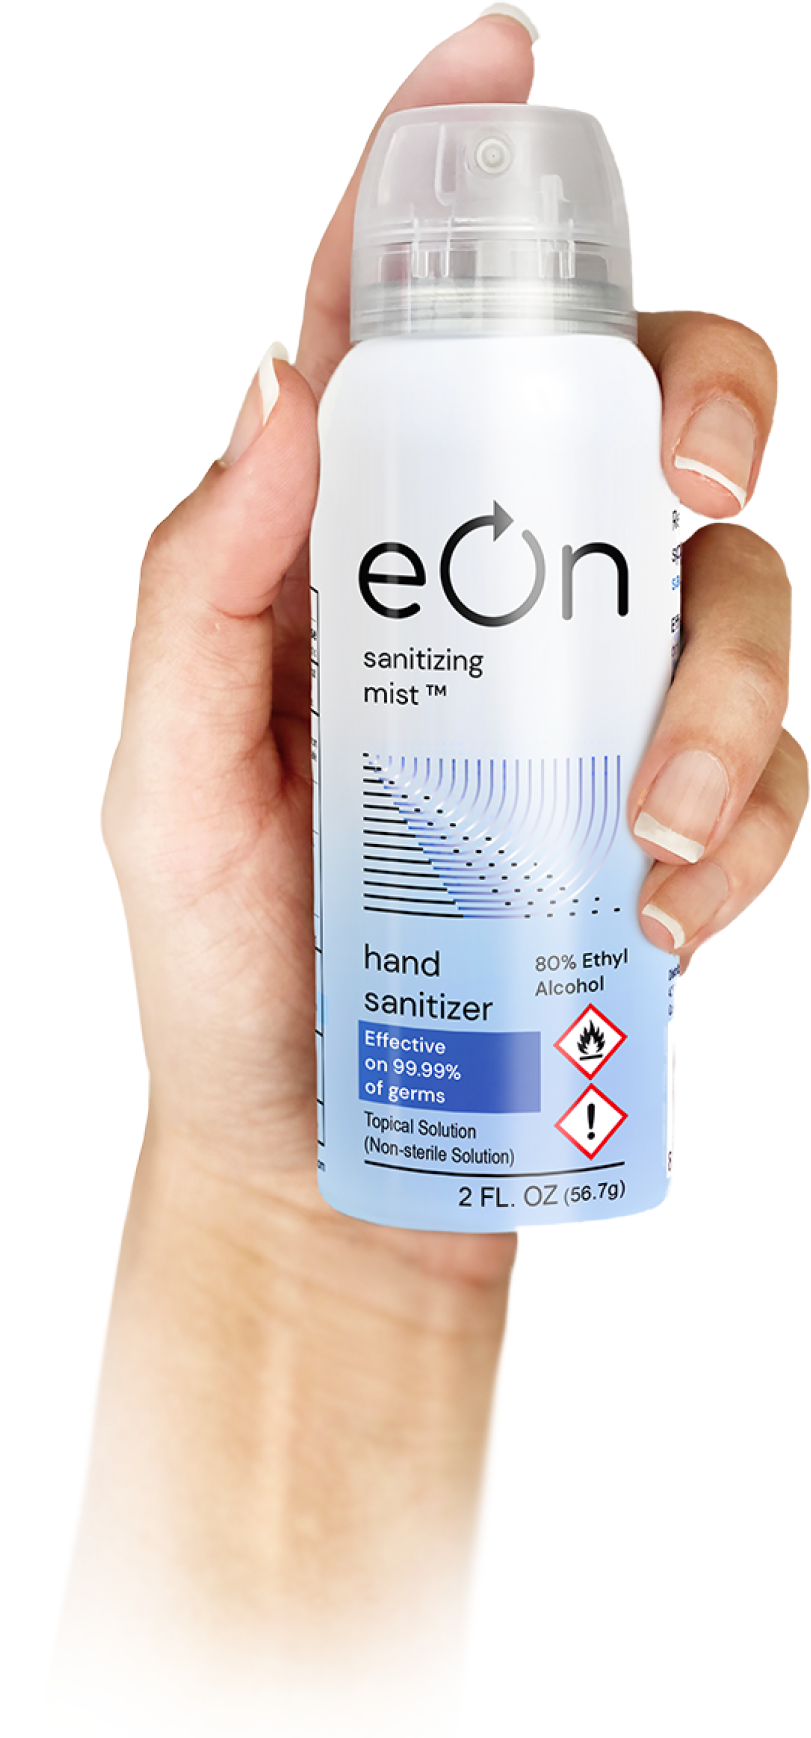
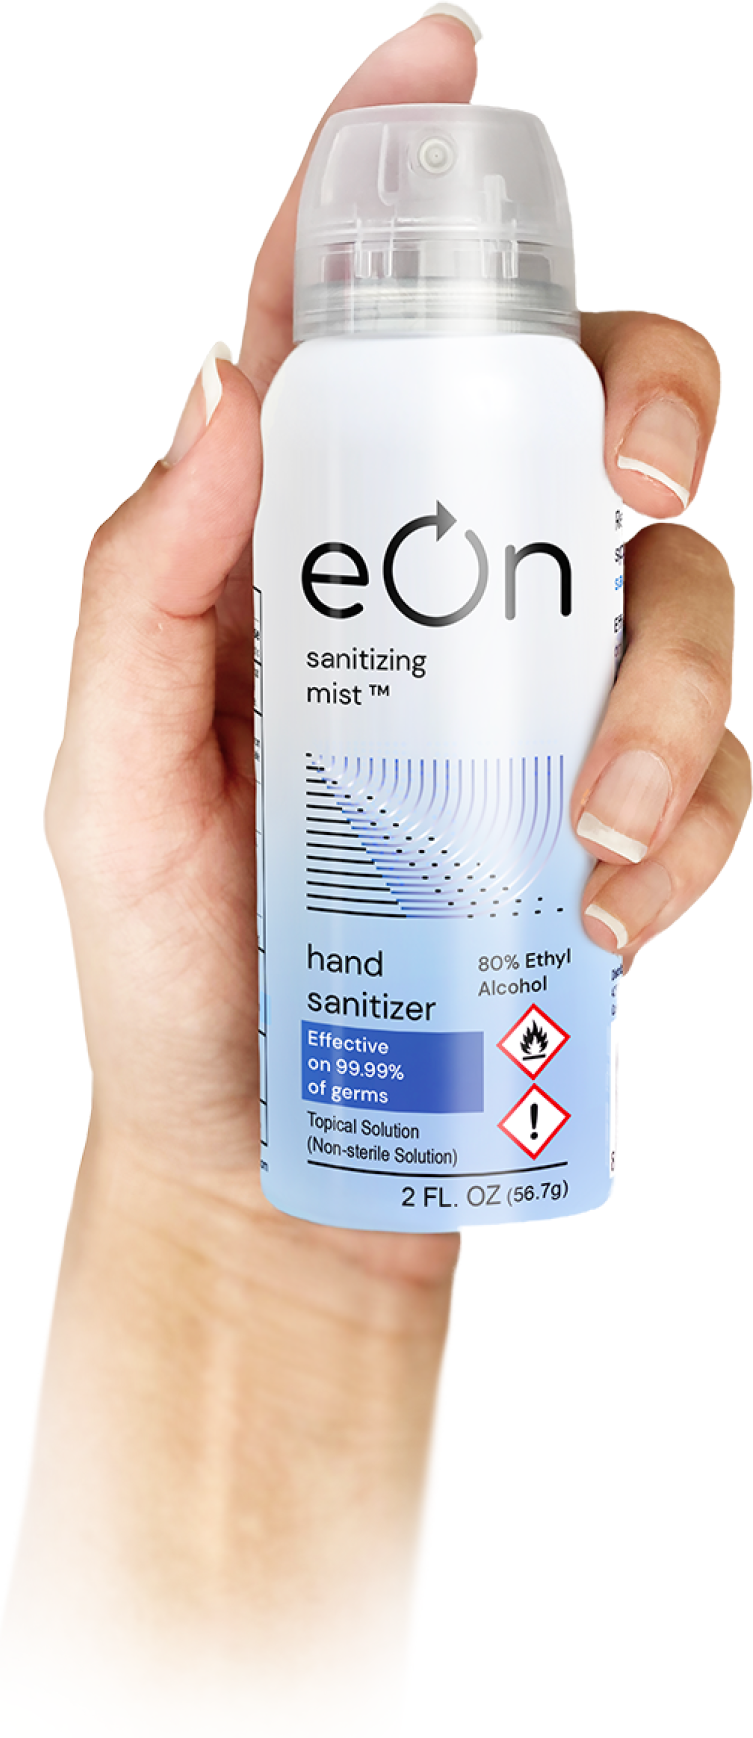
layout

diff --git a/web/src/components/HomePage/Specs/styles.scss.tsx b/web/src/components/HomePage/Specs/styles.scss.tsx
@@ -75,6 +75,10 @@ export const HowTo = styled(Flex)`
   margin: 0 auto;
   flex-wrap: wrap;
 
+  @media ${theme.mq.tablet} {
+    flex-wrap: nowrap;
+  }
+
   .figure {
     display: flex;
     flex-direction: column;
@@ -82,11 +86,12 @@ export const HowTo = styled(Flex)`
 
     margin: 0 ${theme.space[5]} ${theme.space[5]};
 
-    flex: 1 1 300px;
-    max-width: 300px;
+    flex: 1 1 280px;
+    max-width: 280px;
 
     @media ${theme.mq.tablet} {
       margin: 0 ${theme.space[3]} ${theme.space[6]};
+      max-width: 333px;
     }
 
     svg {
@@ -94,6 +99,10 @@ export const HowTo = styled(Flex)`
       width: 100%;
 
       @media ${theme.mq.tablet} {
+        height: 140px;
+      }
+
+      @media ${theme.mq.desktop} {
         height: 200px;
       }
     }
@@ -109,11 +118,15 @@ export const HowTo = styled(Flex)`
 
       background: ${theme.colors.white};
       border: ${theme.border};
-      /* border-radius: ${theme.space[9]}; */
+      border-radius: ${theme.borderRadius};
       margin-top: ${theme.space[4]};
       padding: ${theme.space[1]} 0;
 
       @media ${theme.mq.tablet} {
+        font-size: calc(${theme.fontSizes[2]} * 1.25);
+      }
+
+      @media ${theme.mq.desktop} {
         font-size: calc(${theme.fontSizes[2]} * 1.5);
       }
     }

diff --git a/web/src/components/HomePage/Specs/Specs.tsx b/web/src/components/HomePage/Specs/Specs.tsx
@@ -51,7 +51,7 @@ const HowTo = () => (
 const Specs = () => {
   return (
     <>
-      <Section bg="background" pt={[7, 11]}>
+      <Section bg="background" pt={[7, 9, 10]}>
         <S.HowTo>
           <HowTo />
         </S.HowTo>
@@ -63,7 +63,7 @@ const Specs = () => {
               <Text as="span" color="primary">
                 Works on contact;
               </Text>{' '}
-              Immediate action against bacteria, fungi, and viruses.
+              Immediate action against 99.99% of common germs.
             </Heading>
           </Box>
           <Flex width={[1, 2 / 10]} justifyContent="flex-end">
@@ -98,11 +98,11 @@ const Specs = () => {
         <Flex className="spec__block">
           <Box width={[1, 8 / 10]} pr={[5, 0]}>
             <Heading as="h3" mb={[4, 5]} className="text--xxl">
-              Fine mist, wide angle{' '}
+              Fine, wide angle{' '}
               <span>
                 <Spray />
               </span>{' '}
-              aerosol covers hands in one quick spray{' '}
+              mist covers hands in one quick spray{' '}
               <span>
                 <Hand />
               </span>{' '}

diff --git a/web/src/components/Layout/Layout.tsx b/web/src/components/Layout/Layout.tsx
@@ -37,19 +37,20 @@ const Layout: React.FC<LayoutProps> = ({ children }) => {
   // const isHome = pathname === '/'
 
   // eslint-disable-next-line no-console
-  console.log(`%c eOn Mist — caseyKennedy.me `, `background: #FFFFFF; color: #000000`)
+  console.log(
+    `%c eOn Mist — built by caseyKennedy.me `,
+    `background: #FFFFFF; color: #000000`
+  )
   return (
     <ContextProvider>
       <ThemeProvider theme={theme}>
         <GlobalStyles />
-        <ParallaxProvider>
-          <S.Wrapper id="main-root">
-            <Header mainRef={mainRef} />
-            <Announcement mainRef={mainRef} to="/eon" />
-            <S.Main ref={mainRef}>{children}</S.Main>
-            <Footer />
-          </S.Wrapper>
-        </ParallaxProvider>
+        <S.Wrapper id="main-root">
+          <Header mainRef={mainRef} />
+          <Announcement mainRef={mainRef} to="/eon" />
+          <S.Main ref={mainRef}>{children}</S.Main>
+          <Footer />
+        </S.Wrapper>
       </ThemeProvider>
     </ContextProvider>
   )

diff --git a/web/src/components/AddToCart/styles.scss.tsx b/web/src/components/AddToCart/styles.scss.tsx
@@ -50,17 +50,17 @@ export const AddToCart = styled(Flex)`
   }
 
   span {
-    margin-left: ${theme.space[5]};
+    margin-left: ${theme.space[4]};
     transition: ${theme.transition.all};
 
     position: relative;
-    right: ${theme.space[2]};
 
-    display: none;
+    /* display: none; */
 
     @media ${theme.mq.tablet} {
       display: block;
       margin-left: ${theme.space[6]};
+      right: ${theme.space[2]};
     }
 
     @media ${theme.mq.desktop} {
@@ -68,7 +68,7 @@ export const AddToCart = styled(Flex)`
     }
 
     svg {
-      width: calc(${theme.space[5]});
+      width: calc(${theme.space[4]} * 1.25);
       fill: ${theme.colors.white};
 
       @media ${theme.mq.desktop} {

diff --git a/web/src/components/HomePage/Hero/styles.scss.tsx b/web/src/components/HomePage/Hero/styles.scss.tsx
@@ -10,7 +10,7 @@ import { Box, Flex } from '../../ui'
 // ___________________________________________________________________
 
 export const Hero = styled(Flex)`
-  height: calc(100vh - calc(${theme.headerHeight} * 2));
+  height: calc(104vh - calc(${theme.headerHeight} * 2));
   min-height: 400px;
   position: relative;
 
@@ -38,6 +38,7 @@ export const Hero = styled(Flex)`
     }
 
     &__figure {
+      justify-content: center;
       position: absolute;
       margin-right: auto;
 
@@ -46,7 +47,6 @@ export const Hero = styled(Flex)`
 
       @media ${theme.mq.tablet} {
         align-self: center;
-        justify-content: center;
         margin: 0 auto;
       }
 

diff --git a/web/src/components/HomePage/Hero/Hero.tsx b/web/src/components/HomePage/Hero/Hero.tsx
@@ -28,7 +28,7 @@ const Hero = () => {
         </S.Decorator>
 
         <Flex className="hero__figure">
-          <Box ml={[0, 9, 6]} width={[`40%`, `27%`, `22%`]} className="figure">
+          <Box ml={[0, 12, 5]} mr={[5, 0, 0]} width={[`50%`, `27%`, `calc(${theme.space[9]} * 2)`]} className="figure">
             <ImgMatch src="hero-handcan.png" altText="eOn Hand Sanitizer can" />
           </Box>
         </Flex>

diff --git a/web/src/components/AddToCart/AddToCart.tsx b/web/src/components/AddToCart/AddToCart.tsx
@@ -71,7 +71,7 @@ const AddToCart: React.FC<Props> = ({ setPortalOpen, linkText }) => {
       disabled={!available || adding}
       onClick={handleAddToCart}
     >
-      {!adding ? `Buy eOn mist™` : 'Thank you'}
+      {!adding ? `Buy Now` : 'Thank you'}
       {!adding ? <Icon name="arrow" /> : <Box className="smiley">😃</Box>}
     </S.AddToCart>
   ) : (

diff --git a/web/src/styles/global.ts b/web/src/styles/global.ts
@@ -35,9 +35,9 @@ const GlobalStyles = createGlobalStyle`
     margin: 0;
     padding: 0;
 
-    /* &::-webkit-scrollbar {
+    &::-webkit-scrollbar {
       display: none;
-    } */
+    }
   }
 
   .img {

diff --git a/web/src/components/Cart/styles.scss.tsx b/web/src/components/Cart/styles.scss.tsx
@@ -24,7 +24,7 @@ export const Cart = styled(Box)`
   opacity: 0;
   visibility: hidden;
 
-  position: fixed;
+  position: absolute;
   top: 0;
   right: 0;
   bottom: 0;
